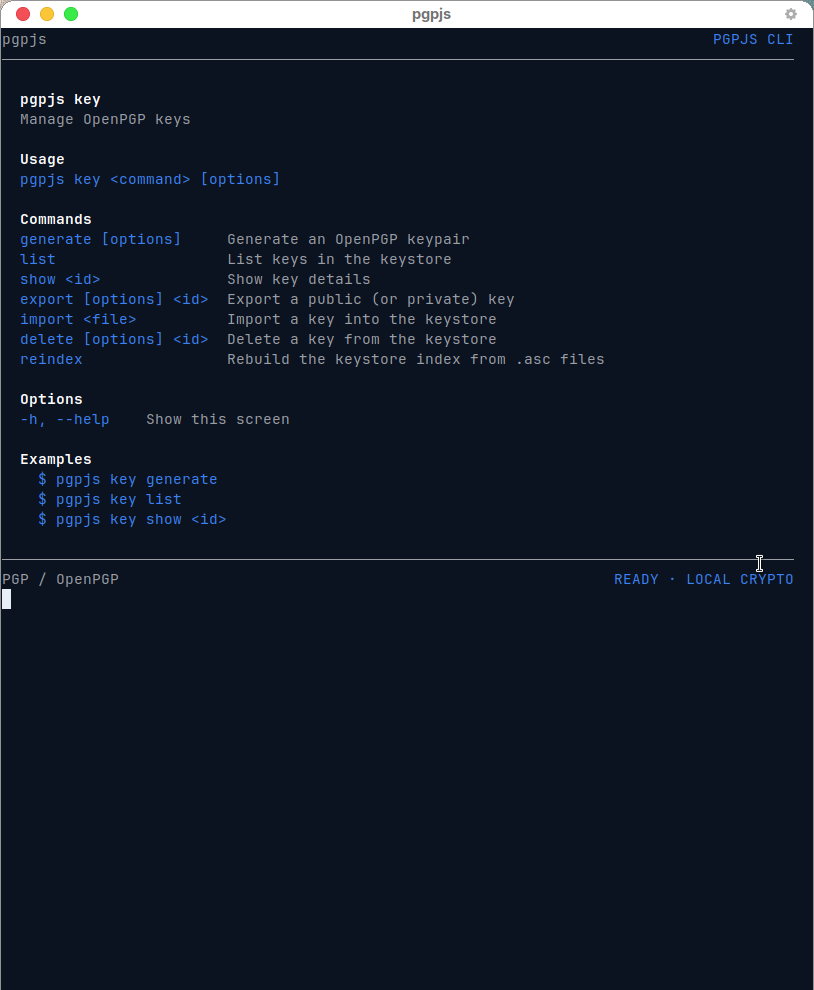
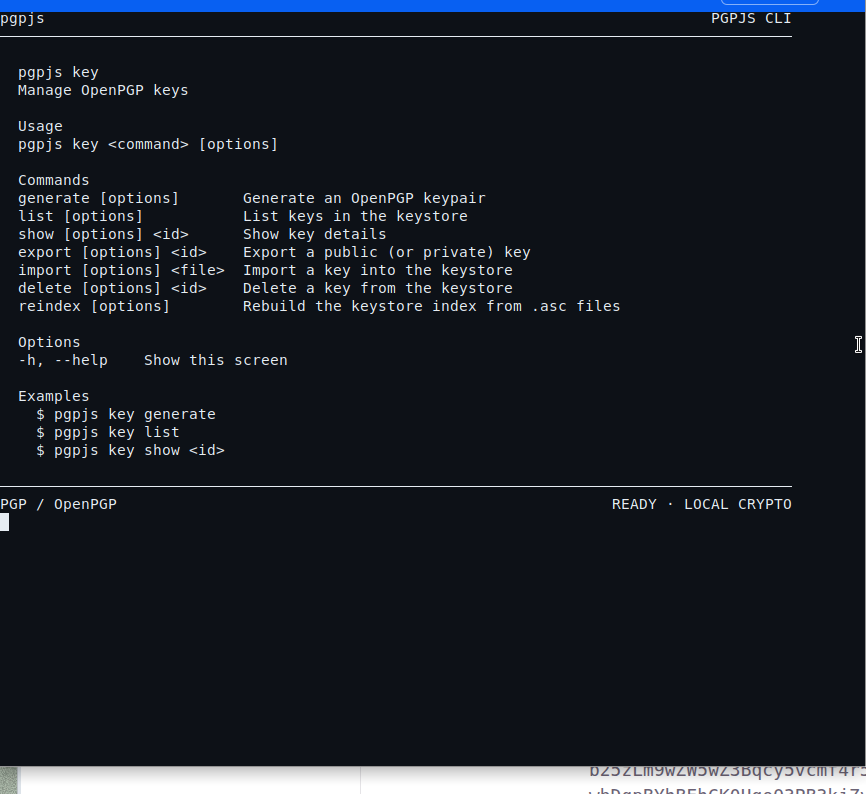
fix: accept global flags after subcommands and run Node ESM scaffolds
Inherit hidden copies of --json/--no-input/--no-color onto every
command, map Commander --no-* onto noInput/noColor, and use explicit
.ts import specifiers so the loopback HTTP helper runs under Node
type stripping. Refresh terminal screenshots.

diff --git a/packages/cli/src/program.ts b/packages/cli/src/program.ts
@@ -54,8 +54,40 @@ function pkgVersion(): string {
 }
 
 function globalFrom(cmd: Command): GlobalFlags {
-  const opts = cmd.optsWithGlobals() as GlobalFlags;
-  return opts;
+  const opts = cmd.optsWithGlobals() as GlobalFlags & { input?: boolean; color?: boolean };
+  const flags: GlobalFlags = {
+    json: Boolean(opts.json),
+    quiet: Boolean(opts.quiet),
+    verbose: Boolean(opts.verbose),
+    noColor: opts.color === false || Boolean(opts.noColor),
+    noInput: opts.input === false || Boolean(opts.noInput)
+  };
+  if (typeof opts.config === "string") flags.config = opts.config;
+  if (typeof opts.home === "string") flags.home = opts.home;
+  if (opts.configFormat === "any" || opts.configFormat === "json") flags.configFormat = opts.configFormat;
+  return flags;
+}
+
+function hiddenGlobals(): Option[] {
+  return [
+    new Option("--json", "Machine-readable JSON on stdout").hideHelp(),
+    new Option("--quiet", "Minimal output").hideHelp(),
+    new Option("--verbose", "Verbose output").hideHelp(),
+    new Option("--no-color", "Disable colour").hideHelp(),
+    new Option("--no-input", "Never prompt").hideHelp(),
+    new Option("--config <path>", "Path to a config file").hideHelp(),
+    new Option("--home <path>", "Override PGPJS_HOME").hideHelp(),
+    new Option("--config-format <fmt>", "Refuse non-JSON configs").choices(["any", "json"]).hideHelp()
+  ];
+}
+
+function inheritGlobals(cmd: Command): void {
+  for (const sub of cmd.commands) {
+    for (const opt of hiddenGlobals()) {
+      sub.addOption(opt);
+    }
+    inheritGlobals(sub);
+  }
 }
 
 function modeFor(cmd: Command, command: string): OutputMode {
@@ -383,6 +415,8 @@ export function buildProgram(): Command {
   cfg.action(async (_opts, cmd) => {
     await withCtx(cmd, "config.show", (ctx, mode) => runConfigShow(ctx, mode));
   });
+
+  inheritGlobals(program);
 
   program.exitOverride((err) => {
     if (err.code === "commander.helpDisplayed" || err.code === "commander.version") {

diff --git a/packages/cli/src/scaffold/files.ts b/packages/cli/src/scaffold/files.ts
@@ -310,7 +310,7 @@ export async function loadPrivateKey(passphrase${ts ? "?: string" : ""})${ts ? "
     relativePath: `${base}/server.${ext}`,
     action: existsSync(join(info.cwd, `${base}/server.${ext}`)) ? "skip" : "create",
     content: `import * as openpgp from "openpgp";
-import { loadPrivateKey, loadPublicKey } from "./keys";
+import { loadPrivateKey, loadPublicKey } from "./keys.${ext}";
 
 if (typeof window !== "undefined") {
   throw new Error("server.ts is Node-only. Private keys must stay on the network server.");
@@ -362,8 +362,8 @@ export { loadPrivateKey, loadPublicKey };
  */
 import { createServer${ts ? ", type IncomingMessage, type ServerResponse" : ""} } from "node:http";
 import { pathToFileURL } from "node:url";
-import { decryptMessage, encryptMessage, signMessage } from "./server";
-import { loadPublicKey } from "./keys";
+import { decryptMessage, encryptMessage, signMessage } from "./server.${ext}";
+import { loadPublicKey } from "./keys.${ext}";
 
 const HOST = process.env.PGPJS_HTTP_HOST ?? "127.0.0.1";
 const PORT = Number(process.env.PGPJS_HTTP_PORT ?? "8788");
@@ -454,8 +454,8 @@ if (process.argv[1] && import.meta.url === pathToFileURL(process.argv[1]).href) 
   files.push({
     relativePath: `${base}/index.${ext}`,
     action: existsSync(join(info.cwd, `${base}/index.${ext}`)) ? "skip" : "create",
-    content: `export { encryptMessage, decryptMessage, signMessage } from "./server";
-export { startPgpjsNetworkServer } from "./http";
+    content: `export { encryptMessage, decryptMessage, signMessage } from "./server.${ext}";
+export { startPgpjsNetworkServer } from "./http.${ext}";
 `
   });
 

diff --git a/packages/cli/src/cli.test.ts b/packages/cli/src/cli.test.ts
@@ -97,6 +97,8 @@ describe("project detection and init plan", () => {
     expect(http?.content).toContain("/pgpjs/sign");
     expect(http?.content).toContain("Access-Control-Allow-Origin");
     expect(http?.content).toContain("PGPJS_ALLOW_REMOTE");
+    expect(http?.content).toContain("./server.ts");
+    expect(http?.content).toContain("./keys.ts");
   });
 });
 
@@ -165,5 +167,16 @@ describe("CLI help", () => {
     const mcp = program.commands.find((c) => c.name() === "mcp");
     expect(mcp?.commands.map((c) => c.name())).toEqual(expect.arrayContaining(["start", "status", "config"]));
     expect(mcp?.commands.map((c) => c.name())).not.toContain("token");
+  });
+
+  it("accepts global flags after a subcommand", () => {
+    const program = buildProgram();
+    const list = program.commands.find((c) => c.name() === "token")?.commands.find((c) => c.name() === "list");
+    const flags = (list?.options ?? []).map((o) => o.long);
+    expect(flags).toContain("--json");
+    expect(flags).toContain("--no-input");
+    expect(flags).toContain("--no-color");
+    const help = list!.helpInformation();
+    expect(help).not.toContain("--json");
   });
 });

diff --git a/packages/cli/src/commands/doctor.ts b/packages/cli/src/commands/doctor.ts
@@ -238,7 +238,7 @@ function scanClientImports(cwd: string, hasSrc: boolean, framework: string): str
       const markedClient = text.includes('"use client"') || text.includes("'use client'");
       const spaClient = framework === "react" || framework === "vite";
       if (!markedClient && !spaClient) continue;
-      if (/from\s+["'][^"']*lib\/pgpjs\/(server|keys|encryption|http)["']/.test(text)) {
+      if (/from\s+["'][^"']*lib\/pgpjs\/(server|keys|encryption|http)(?:\.(?:ts|js))?["']/.test(text)) {
         return full;
       }
     }

diff --git a/docs/cli.md b/docs/cli.md
@@ -2,7 +2,7 @@
 
 `pgpjs` is a **terminal** program. `pgpjs` and `pgpjs --help` print a dark-terminal splash (key icon, grouped Core / Developer / AI·MCP commands). Subcommands print the same chrome — not a web page and not man-page HTML.
 
-All commands accept the global flags `--json`, `--quiet`, `--verbose`, `--no-color`, `--no-input`, `--config <path>`, `--home <path>`, `--config-format json|any`.
+All commands accept the global flags `--json`, `--quiet`, `--verbose`, `--no-color`, `--no-input`, `--config <path>`, `--home <path>`, `--config-format json|any` (before or after the subcommand, e.g. `pgpjs key list --json`).
 
 `--json` writes a single JSON document to stdout and nothing else. Diagnostics go to stderr. Non-interactive mode is also entered when `--json`, `--no-input`, `CI=true`, `PGPJS_NON_INTERACTIVE=1`, or stdin is not a TTY.
 

diff --git a/CHANGELOG.md b/CHANGELOG.md
@@ -5,5 +5,7 @@
 - Initial public release of `pgpjs-cli`.
 - OpenPGP.js 6.3.1 (RFC 9580) for all cryptographic operations.
 - Terminal UI: grouped Core / Developer / AI·MCP commands. `token` is top-level (`pgpjs token create|list|revoke|rotate`). `pgpjs mcp start|status|config`. `pgpjs install react` and `pgpjs install node` (loopback network).
+- Global flags (`--json`, `--no-input`, `--no-color`, …) work after the subcommand (`pgpjs key list --json`).
+- Node network scaffold uses explicit `.ts` imports so `node --experimental-strip-types src/lib/pgpjs/http.ts` runs.
 - JSON envelope `{ ok, version, command, data | error }` with documented exit codes 0–12.
 - MCP stdio + optional HTTP, hashed tokens, permission intersection, no private-key export path.
